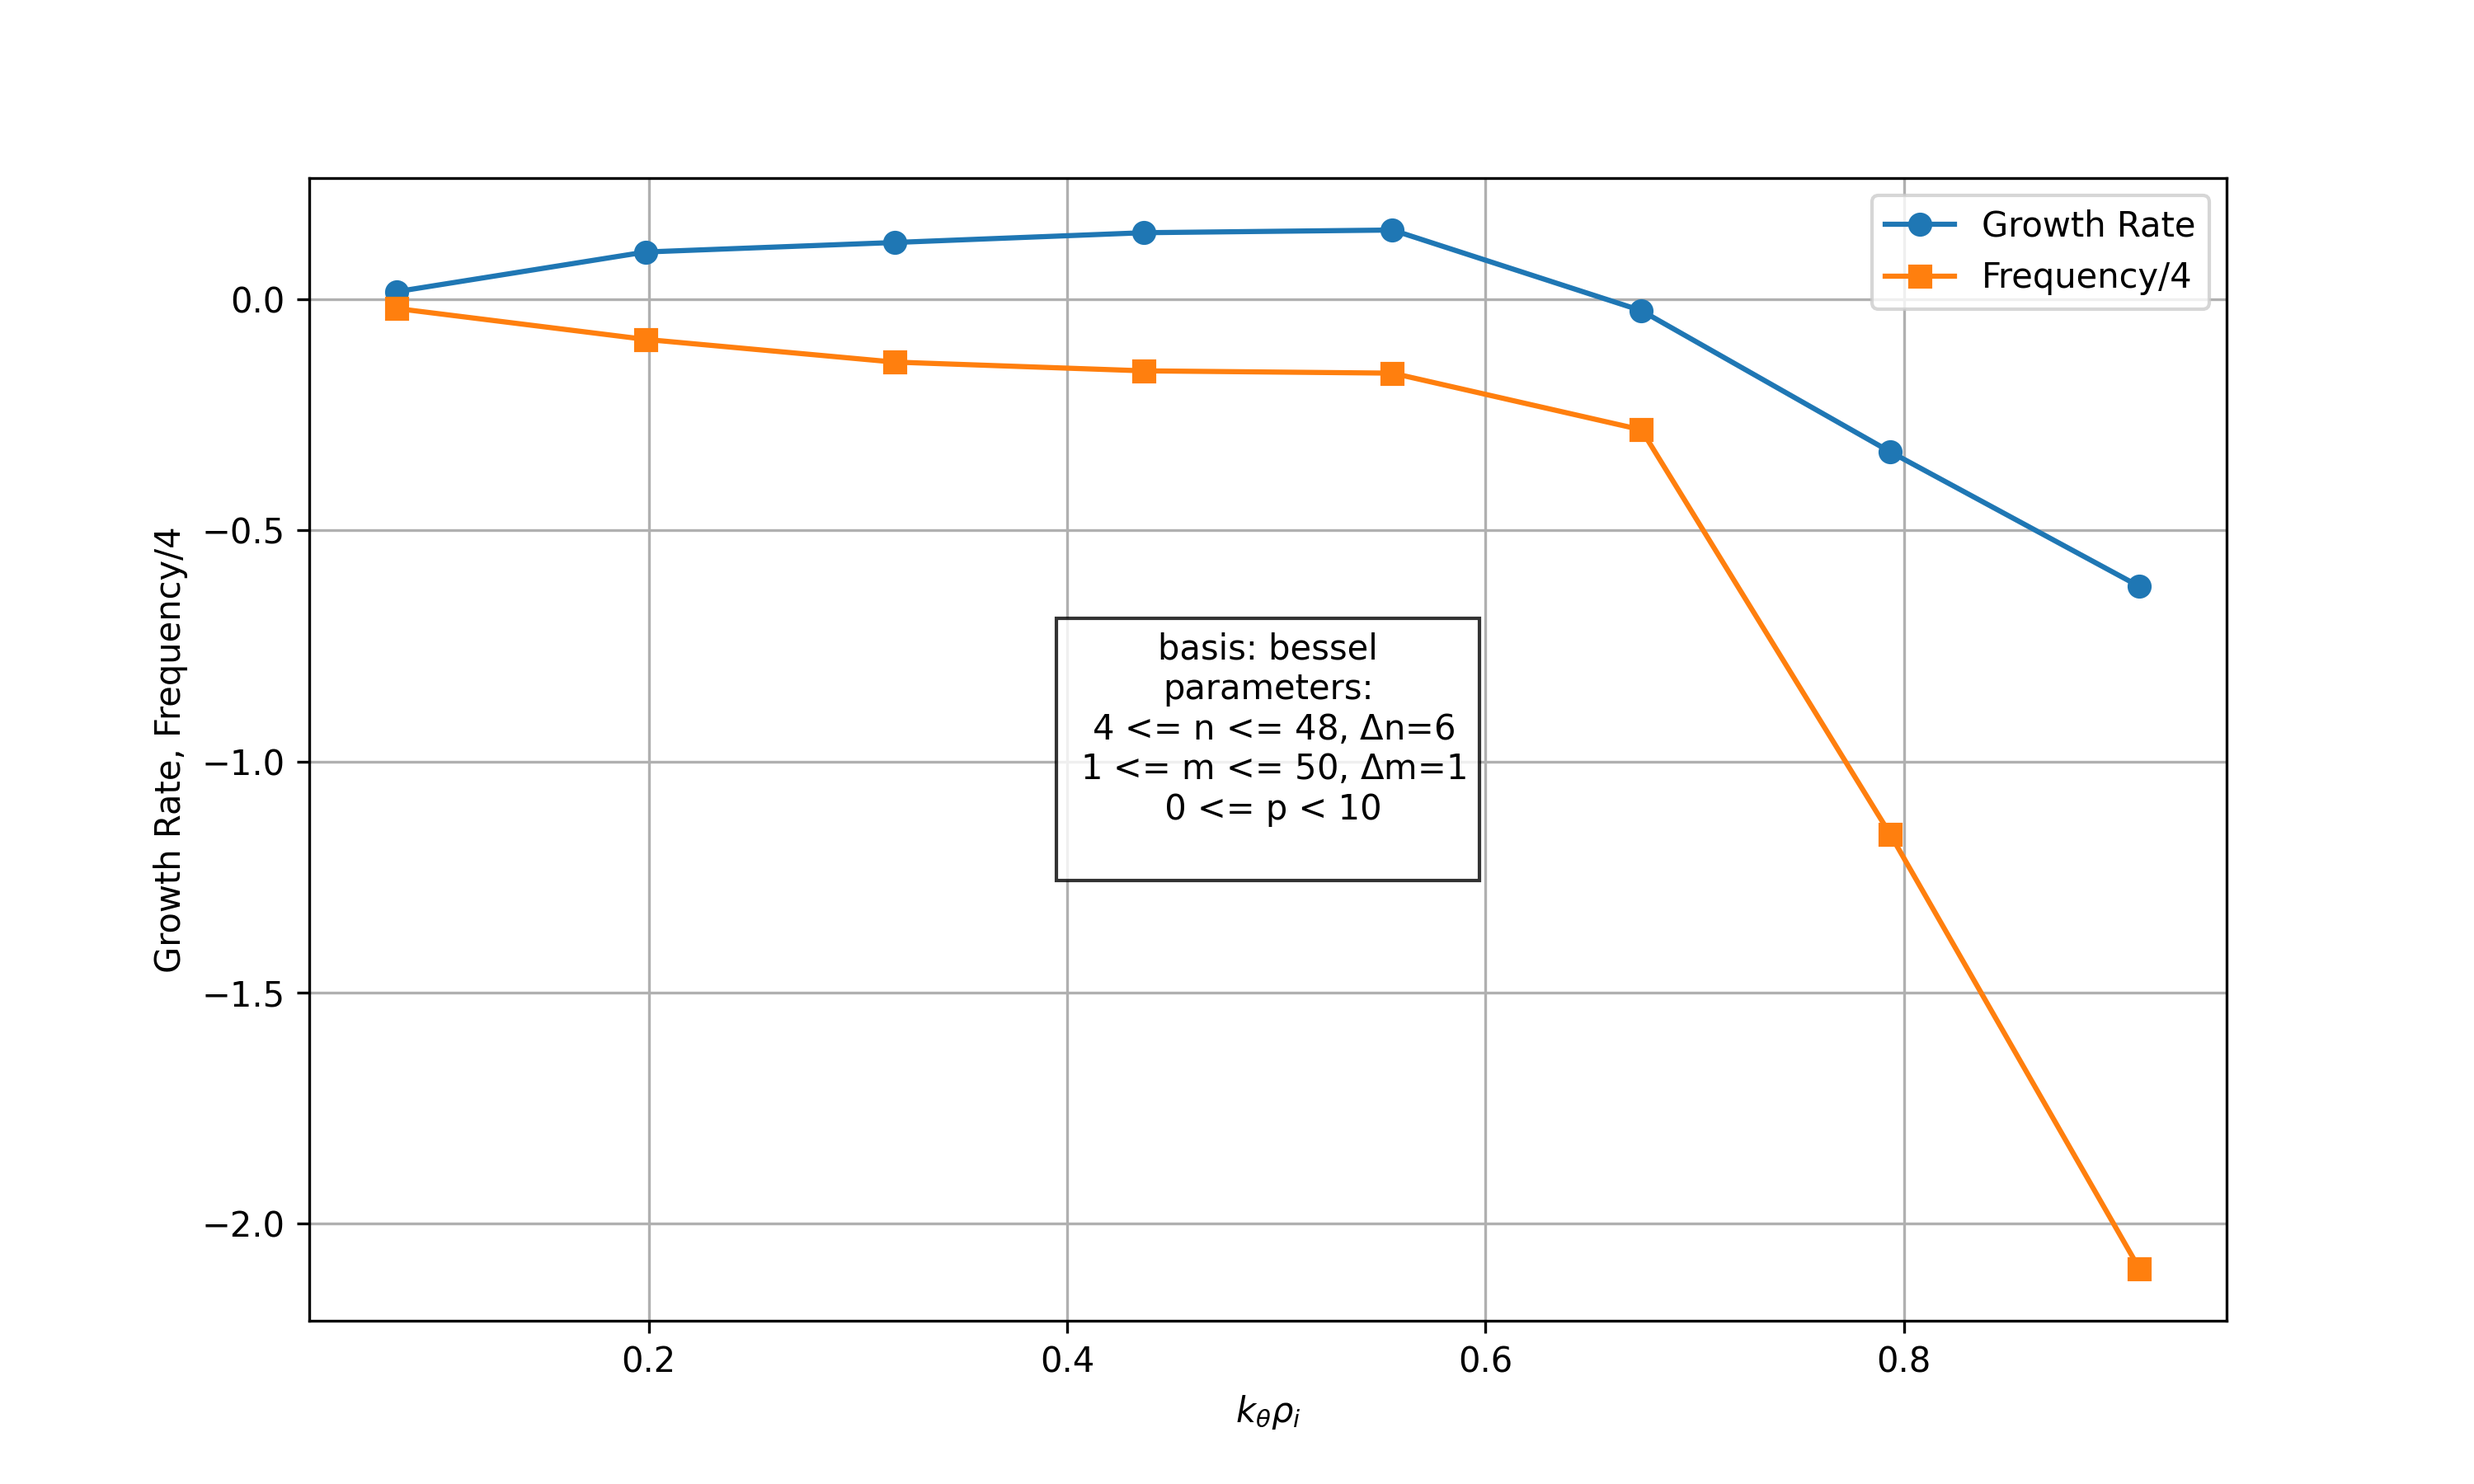
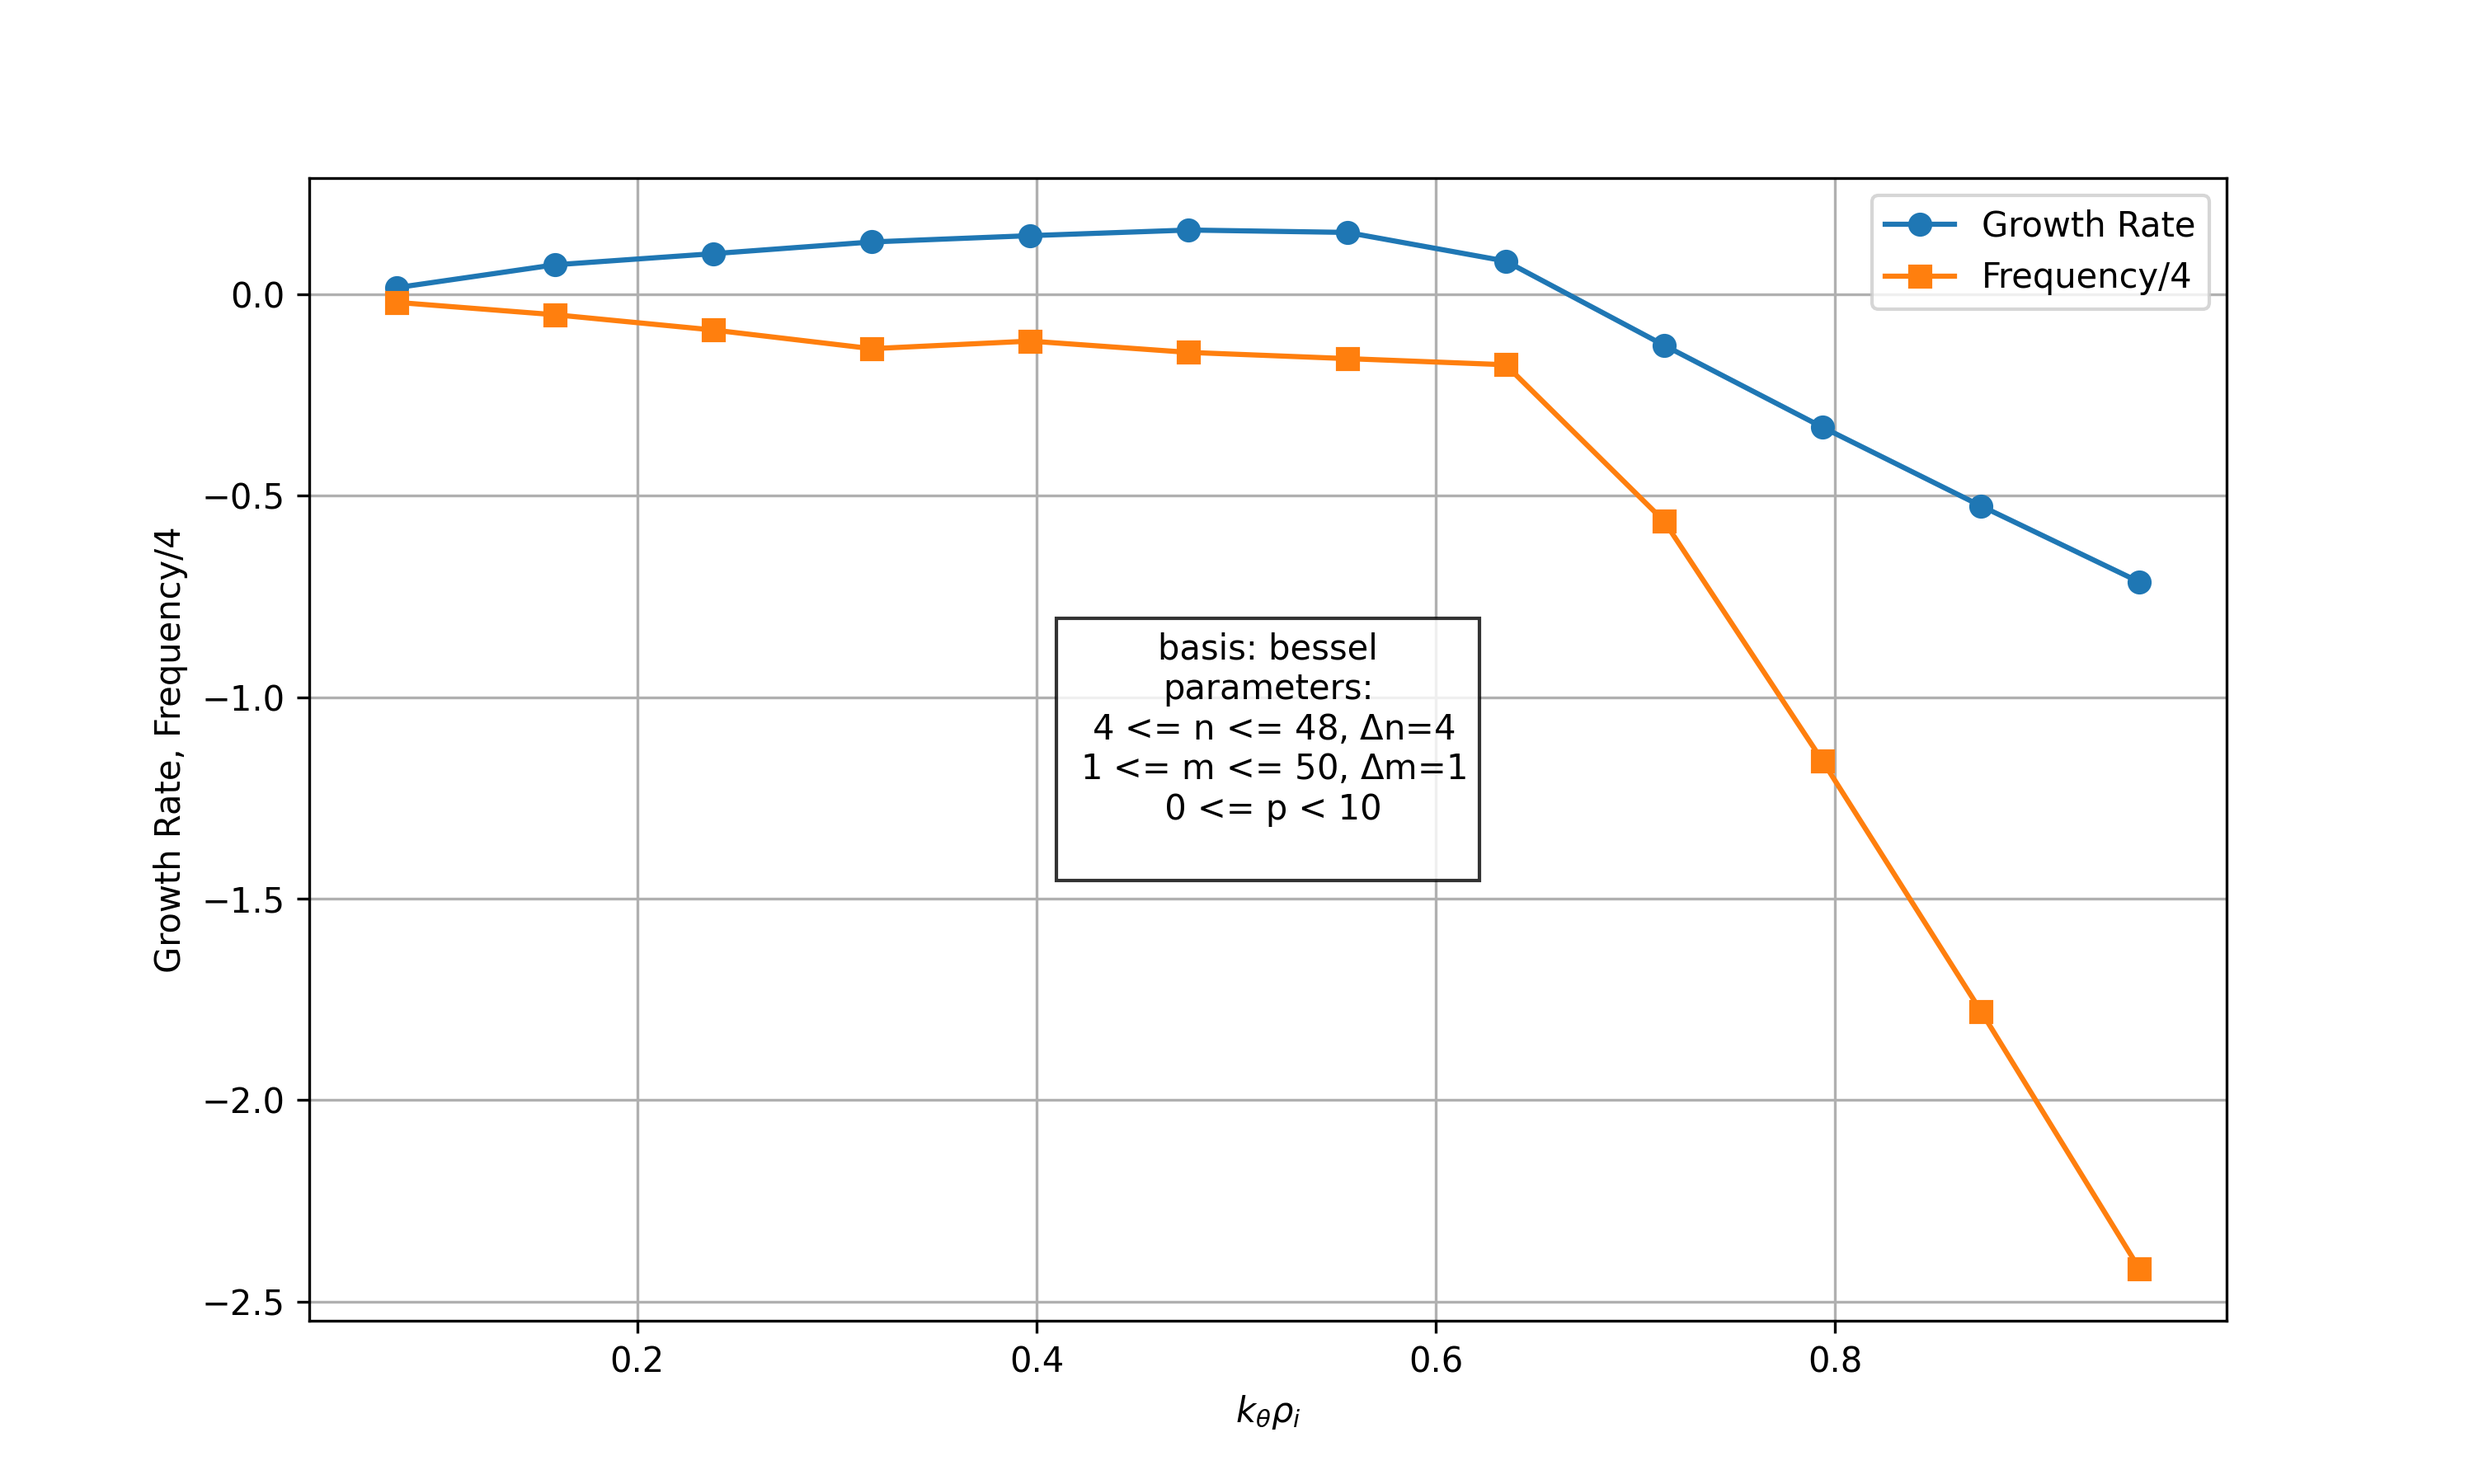
eigenmode plot feature

diff --git a/solve.py b/solve.py
@@ -114,20 +114,20 @@ plt.show()
 # 특정 n에 대해 가장 큰 성장률을 가지는 모드의 퍼텐셜을 시각화한다.
 W = matrices.W
 rs = param.rs
-thetas = np.linspace(-np.pi, np.pi, 100)
-for n in n_values:
+thetas = np.arange(-np.pi, np.pi, 0.01)
+for i, n in enumerate(n_values):
     idx = n_mode_indexes[n] # n 모드에 해당하는 k 인덱스들을 가져온다.
     most_unstable_mode_index = most_unstable_mode_indexes[i] # n 모드에서 가장 성장률이 큰 모드의 인덱스를 가져온다.
     F = F_blocked[i][:, most_unstable_mode_index] # 성장률이 가장 큰 모드의 계수들을 가져온다. shape (k_n,) F_blocked[i] = [phi1, phi2, ... phi_kn, Ti1, Ti2, ... Ti_kn, ne1, ne2, ... ne_kn]
+    phi_k = F[:len(idx)] # phi에 해당하는 계수들을 가져온다. shape (k_n,)
     Wk = W[idx] # n 모드에 해당하는 Wk 함수들을 가져온다. shape (k_n, r_num)
     m = ks[idx, 1] # n 모드에 해당하는 m 값들을 가져온다. shape (K_n,)
     exp_imtheta = np.exp(1j * m[:, None] * thetas[None, :]) # theta에 대한 exp(i*m*theta) 부분을 계산한다. shape (k_n, 100,)
     # phi = sum_k F_k*W_k*exp(1j*m*theta) shape (256, 100)
 
-    phi = np.sum(F[:, None, None] * Wk[:, :, None] * exp_imtheta[None, None, :], axis=0) # F_k * W_k(r) * exp(i*m*theta) 부분을 계산한다. shape (256, 100)
-
-    x = rs * np.cos(thetas)
-    y = rs * np.sin(thetas)
+    phi = np.sum(phi_k[:, None, None] * Wk[:, :, None] * exp_imtheta[:, None, :], axis=0) # F_k * W_k(r) * exp(i*m*theta) 부분을 계산한다. shape (256, 100)
+    x = rs[:, None] * np.cos(thetas)[None, :]
+    y = rs[:, None] * np.sin(thetas)[None, :]
     
     plt.figure(figsize=(8, 6))
     plt.contourf(x, y, phi.real, levels=50, cmap='viridis')

diff --git a/parameters.py b/parameters.py
@@ -5,7 +5,7 @@ import sympy as sp
 n_start, n_delta, n_end = 4, 4, 48
 # n_start, n_delta, n_end = 5, 5, 15
 m_start, m_delta, m_end = 1, 1, 50
-p = 5 # radiam mode (p=0, 1, 2, 3,... p-1)
+p = 10 # radiam mode (p=0, 1, 2, 3,... p-1)
 
 r_start, r_end = 0.2, 0.9
 r_num = 256
